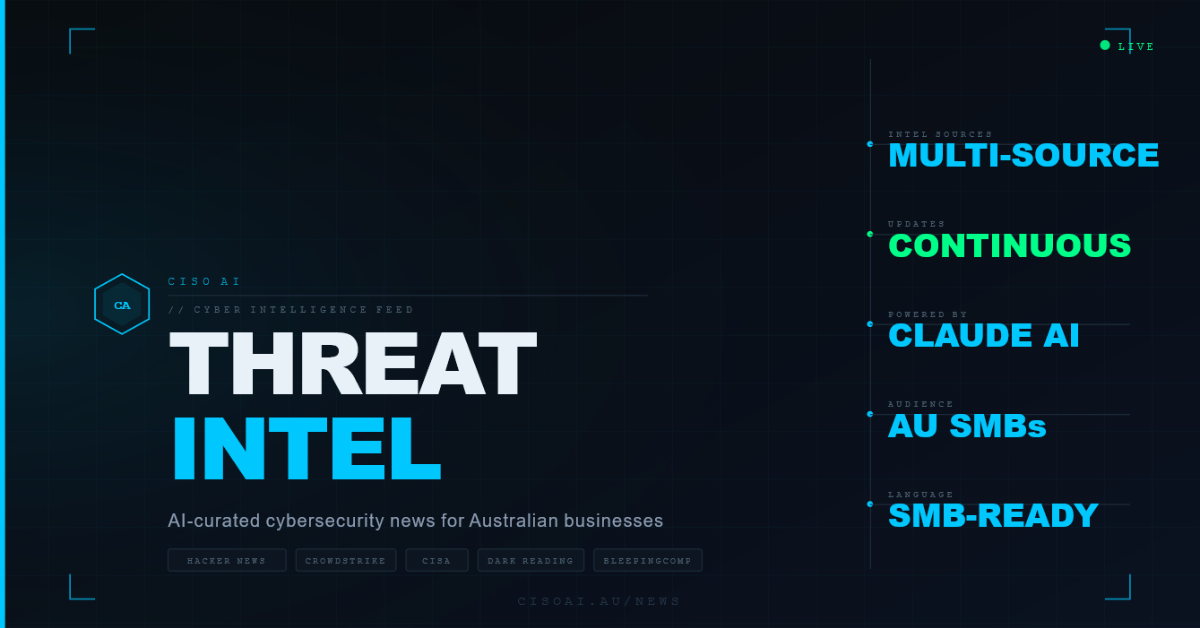
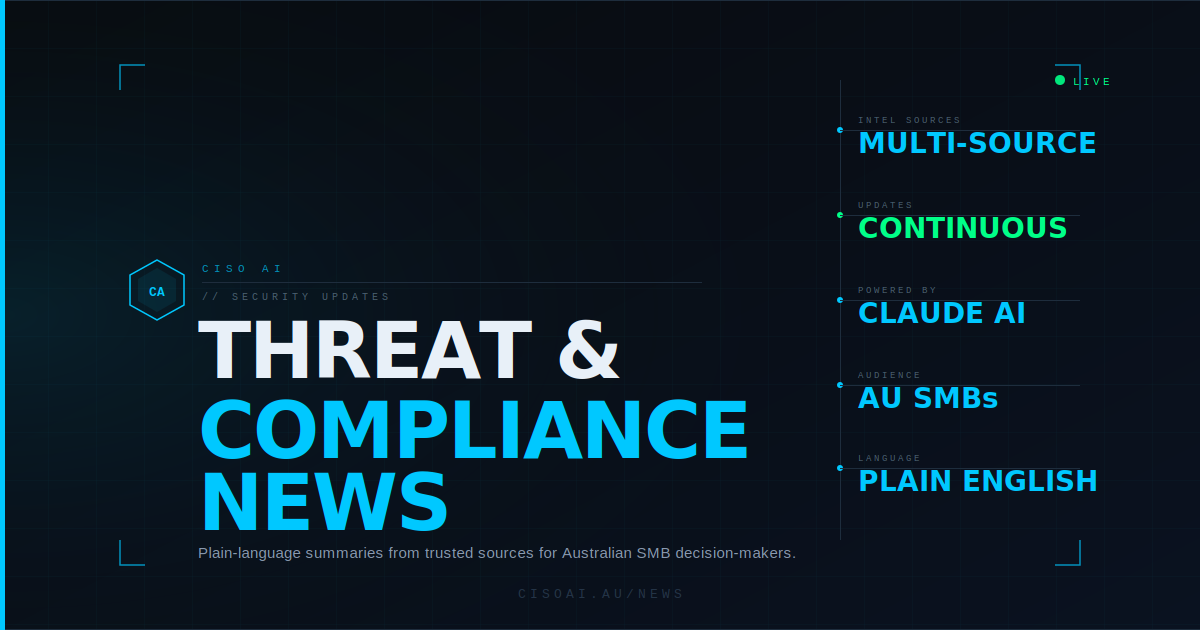
Added new OG Images and updated

diff --git a/intel/news.html b/intel/news.html
@@ -18,7 +18,7 @@
   <meta property="og:title" content="Threat &amp; Compliance News | CISO AI" />
   <meta property="og:description" content="AI-curated cybersecurity news from 6 top sources, rewritten in plain language for Australian small businesses." />
   <meta property="og:url" content="https://cisoai.au/intel/news" />
-  <meta property="og:image" content="https://cisoai.au/intel/og-image.png?v=20260226" />
+  <meta property="og:image" content="https://cisoai.au/intel/og-image.png?v=20260227" />
   <meta property="og:image:type" content="image/png" />
   <meta property="og:image:width" content="1200" />
   <meta property="og:image:height" content="630" />
@@ -31,11 +31,11 @@
   <meta name="twitter:creator" content="@cisoai" />
   <meta name="twitter:title" content="Threat &amp; Compliance News | CISO AI" />
   <meta name="twitter:description" content="AI-curated cybersecurity news from CrowdStrike, CISA, Hacker News & more — rewritten in plain language for Australian SMBs." />
-  <meta name="twitter:image" content="https://cisoai.au/intel/og-image.png?v=20260226" />
+  <meta name="twitter:image" content="https://cisoai.au/intel/og-image.png?v=20260227" />
   <meta name="twitter:image:alt" content="CISO AI Cyber Threat Intelligence Feed" />
 
   <!-- ── LinkedIn specific ─────────────────────────────────────── -->
-  <meta property="og:image:secure_url" content="https://cisoai.au/intel/og-image.png?v=20260226" />
+  <meta property="og:image:secure_url" content="https://cisoai.au/intel/og-image.png?v=20260227" />
 
   <!-- ── Schema.org JSON-LD ─────────────────────────────────────── -->
   <script type="application/ld+json">
@@ -51,12 +51,12 @@
       "url": "https://cisoai.au",
       "logo": {
         "@type": "ImageObject",
-        "url": "https://cisoai.au/intel/og-image.png?v=20260226"
+        "url": "https://cisoai.au/intel/og-image.png?v=20260227"
       }
     },
     "image": {
       "@type": "ImageObject",
-      "url": "https://cisoai.au/intel/og-image.png?v=20260226",
+      "url": "https://cisoai.au/intel/og-image.png?v=20260227",
       "width": 1200,
       "height": 630
     },
